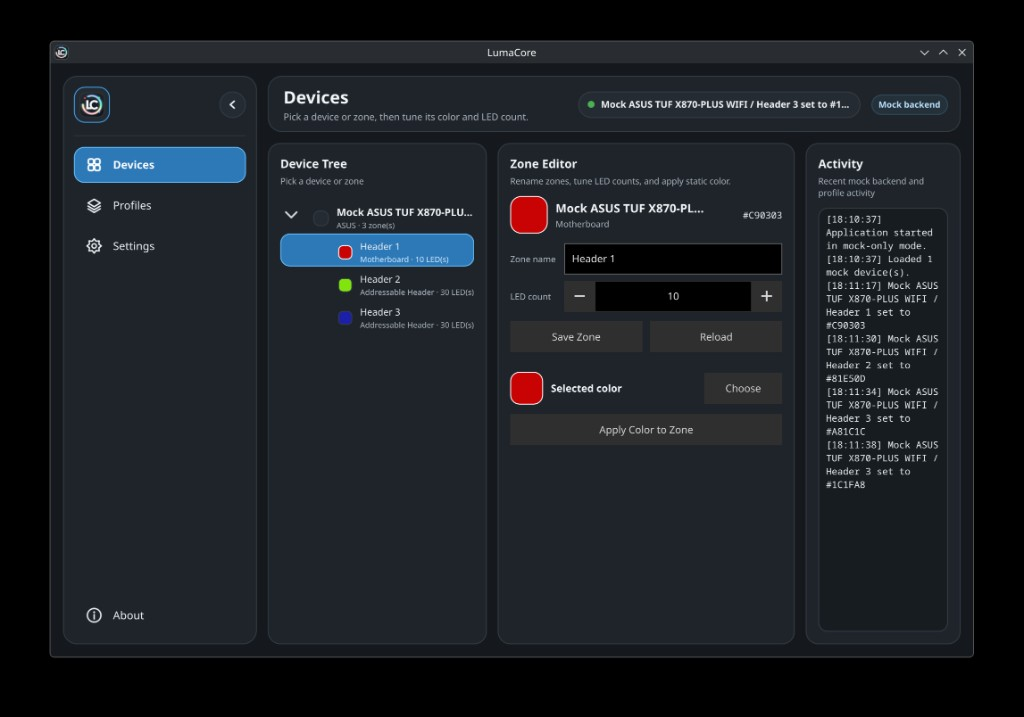
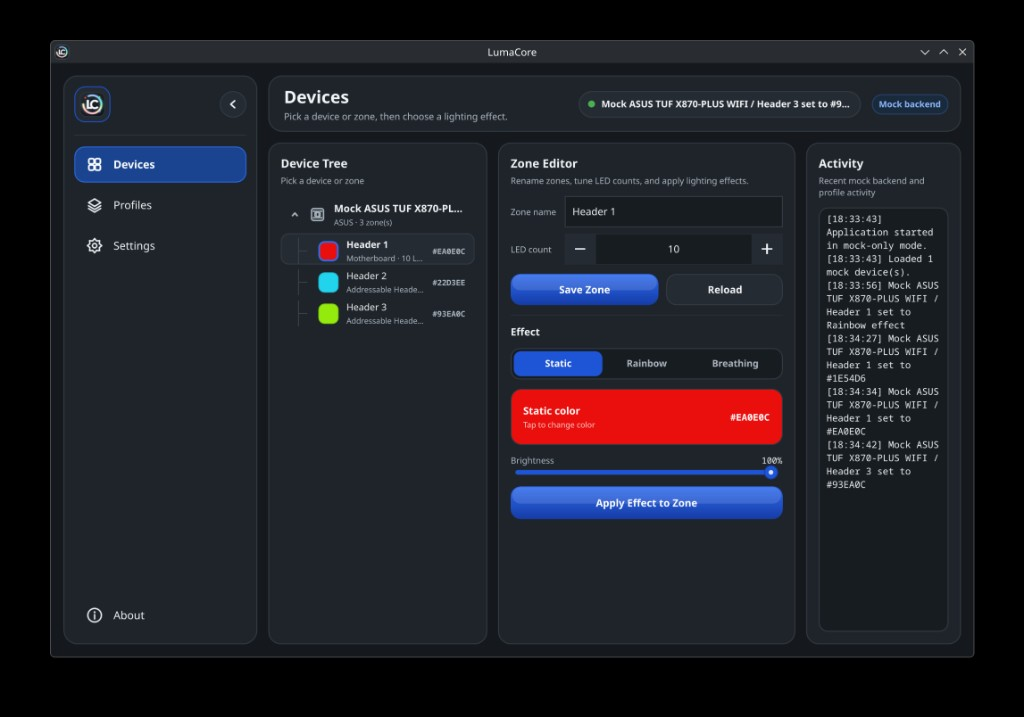
Increment version to 0.1.0 and enhance features for improved user experience
- Updated project version from 0.0.9 to 0.1.0 in CMakeLists.txt, README.md, and Version.h.
- Introduced new UI features including centralized theming, custom dialogs, and a modern device tree.
- Enhanced zone editor with live effect previews and improved settings for UI animations and themes.
- Added support for static, rainbow, and breathing effects with adjustable speed and brightness.
- Updated README to reflect new features and improvements in v0.1.0.

diff --git a/app/Version.h b/app/Version.h
@@ -3,7 +3,7 @@
 #include <QString>
 
 #ifndef LUMACORE_VERSION
-#define LUMACORE_VERSION "0.0.9"
+#define LUMACORE_VERSION "0.1.0"
 #endif
 
 namespace lumacore {

diff --git a/README.md b/README.md
@@ -1,25 +1,37 @@
 # ![LumaCore icon](assets/icons/lumacore-32.png) LumaCore
 
-**v0.0.9** — Linux-first, open-source RGB control built with C++23, Qt 6, and CMake.
+**v0.1.0** — Linux-first, open-source RGB control built with C++23, Qt 6, and CMake.
 
 LumaCore is a passion project focused on safe, maintainable RGB control rather than quick hardware hacks. This version is **mock-only** by design: it ships with a Qt Quick desktop app, a core RGB device model, and a simulated ASUS motherboard-style device with three zones. No real hardware access, root permissions, SMBus/I2C writes, USB writes, or hidraw access are used.
 
 ![LumaCore Devices view](assets/screenshots/lumacore-devices.png)
 
-## Features (v0.0.9)
+![LumaCore collapsed sidebar](assets/screenshots/lumacore-devices-collapsed.png)
 
-- Qt Quick desktop UI with device/zone selection and a color picker
+## What's new in v0.1.0
+
+- **UI theming** — centralized `Theme.qml` with a deeper accent blue; reusable `AppButton`, `AppSwitch`, and `AppSlider` components
+- **Dialogs** — custom `ColorPickerDialog` and styled About dialog (replacing native Qt dialog buttons)
+- **Device tree** — modern pill rows, tree connector lines, per-zone color swatches with hex labels, and a motherboard icon
+- **Zone editor** — removed redundant applied-color header bar; live effect preview with speed aligned to the backend
+- **Effects** — static, rainbow, and breathing modes with speed/brightness sliders and real-time preview
+- **Settings** — UI animations toggle and theme picker (Auto / Light / Dark)
+
+## Features (v0.1.0)
+
+- Qt Quick desktop UI with collapsible nav rail, device tree, zone editor, and activity log
 - In-memory RGB model: devices, zones, and LEDs
 - Mock backend with one simulated **ASUS TUF X870-PLUS WIFI** device:
   - Header 1 (10 LEDs)
   - Header 2 (30 LEDs)
   - Header 3 (30 LEDs)
-- Static color control per zone
-- JSON profile save/load under `./profiles`
+- Static, rainbow, and breathing effects per zone with speed and brightness controls
+- Custom in-app color picker and JSON profile save/load under `./profiles`
+- Settings page for theme and animation preferences
 - Activity log and status bar in the UI
 - Embedded multi-resolution application icons
 
-Not yet implemented: breathing/rainbow effects, automated tests, and any real hardware discovery or writes.
+Not yet implemented: automated tests and any real hardware discovery or writes.
 
 ## Requirements
 
@@ -53,21 +65,23 @@ Profiles are stored in `./profiles` relative to the **current working directory*
 | Path | Role |
 |------|------|
 | `app/` | Application startup and Qt/QML wiring |
-| `core/` | RGB data model, device ownership, profile save/load |
+| `core/` | RGB data model, device ownership, effects engine, profile save/load |
 | `backends/mock/` | Safe simulated hardware backend |
 | `ui/` | QML-facing models and `AppController` |
 | `ui/qml/` | Qt Quick user interface |
+| `ui/qml/components/` | Reusable QML components (`AppButton`, `ColorPickerDialog`, `DeviceTreePanel`, etc.) |
 | `assets/icons/` | Application icons (`lumacore.svg` is the source; PNG/ICO sizes are embedded via Qt resources) |
+| `assets/screenshots/` | README and documentation screenshots |
 
 ### Data flow
 
 1. `main.cpp` creates `DeviceManager`, UI models, and `AppController`.
 2. `DeviceManager` asks `MockBackend` for devices.
-3. QML displays devices via `DeviceListModel` and zones via `ZoneListModel`.
-4. Color changes go from QML → `AppController` → `DeviceManager` → the mock device.
+3. QML displays devices via `DeviceTreeModel` and zones via `ZoneListModel`.
+4. Color and effect changes go from QML → `AppController` → `DeviceManager` → the mock device.
 5. Profile save/load reads and writes JSON under `./profiles`.
 
-`DeviceManager` owns devices with `std::unique_ptr<RgbDevice>`. Devices own zones by value; zones own LEDs by value. QML never owns or directly mutates hardware-shaped objects. `RgbDevice::setZoneStaticColor()` is the only write-like operation today; future hardware backends must keep this boundary and add permission checks, logging, and confirmation before real writes.
+`DeviceManager` owns devices with `std::unique_ptr<RgbDevice>`. Devices own zones by value; zones own LEDs by value. QML never owns or directly mutates hardware-shaped objects. `RgbDevice::setZoneStaticColor()` and effect application are the write-like operations today; future hardware backends must keep this boundary and add permission checks, logging, and confirmation before real writes.
 
 ## Profile format
 
@@ -91,9 +105,9 @@ Profiles are JSON files in `./profiles`. The filename is the normalized profile 
                     "ledCount": 10,
                     "color": "#1E54D6",
                     "rgb": {
-                        "red": 64,
-                        "green": 128,
-                        "blue": 255,
+                        "red": 30,
+                        "green": 84,
+                        "blue": 214,
                         "hex": "#1E54D6"
                     }
                 }
@@ -113,7 +127,7 @@ Phase 1 does not touch real hardware. There is no hidapi, libusb, i2c-dev, SMBus
 
 - The GUI talks only to QML models and `AppController`.
 - `DeviceManager` owns mock devices only.
-- Static color changes update in-memory mock zones and are logged to the console and UI.
+- Static color and effect changes update in-memory mock zones and are logged to the console and UI.
 - Profiles load through the same mock backend path as the UI.
 
 **Before any real hardware writes:**
@@ -128,7 +142,7 @@ Phase 1 does not touch real hardware. There is no hidapi, libusb, i2c-dev, SMBus
 
 ## Roadmap
 
-1. **Safe foundation** — mock backend, device model, profiles, basic effects (static, breathing, rainbow), safety documentation *(in progress; v0.0.9 covers mock UI, effects, theming, and profiles)*
+1. **Safe foundation** — mock backend, device model, profiles, basic effects (static, breathing, rainbow), safety documentation *(v0.1.0 delivers mock UI polish, effects, theming, profiles, and device tree UX; automated tests still pending)*
 2. **Linux integration** — read-only hardware discovery behind feature flags, structured logging, udev/i2c/hidraw/USB permission handling, unprivileged GUI with a daemon boundary
 3. **First hardware backends** — read-only ASUS Aura-style motherboard discovery; hidapi/libusb where appropriate; SMBus/i2c only after safety flows exist; mock coverage required before any real write path
 4. **Extensibility** — stable backend interface, plugin-style backend loading, profile import/export, device mapping, Windows support without weakening Linux safety boundaries